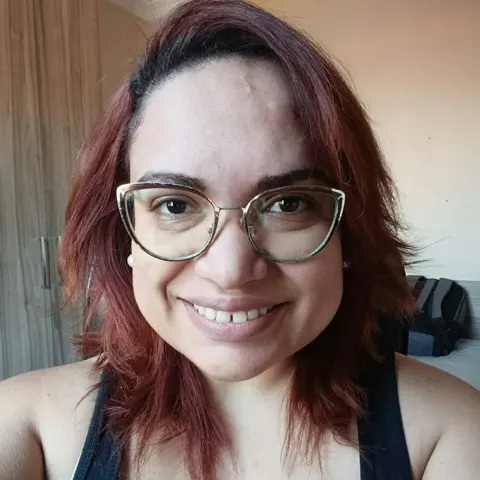
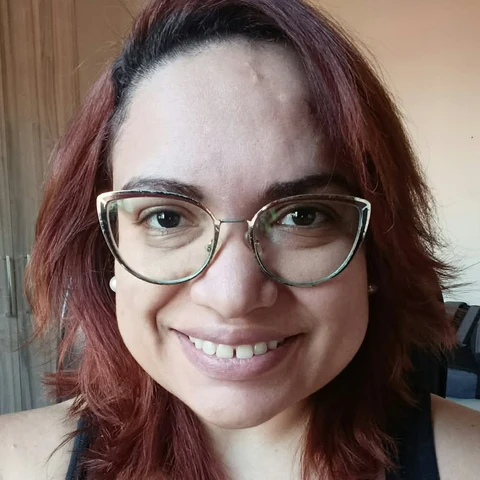
Add the four-speaker panel Infiltradas em Tech: group talk card, spotlight layout and new speaker photos (DEV lineup only)

diff --git a/docs/js/data/schedule.js b/docs/js/data/schedule.js
@@ -99,7 +99,9 @@ const LINEUP_SPEAKER_ROWS = [
   ["victor-ulisses-pugliese", "Victor Ulisses Pugliese", "Researcher, Federal University of São Paulo", "GDE", "assets/img/lineup/victor-ulisses-pugliese.webp", "https://www.linkedin.com/in/victorpug-exe/"],
   ["gustavo-caetano", "Gustavo Caetano", "Head de Educação na LINUXtips", "", "assets/img/lineup/gustavo-caetano.webp", "https://www.linkedin.com/in/oguscaetano/"],
   ["isaque-dias-coelho", "Isaque Dias Coelho", "CI&T - Android Developer Senior", "", "assets/img/lineup/isaque-dias-coelho.webp", "https://www.linkedin.com/in/isaque-coelho/"],
-  ["amanda-araujo-duaibs", "Amanda Araújo Duaibs", "Analista BI", "", "assets/img/lineup/amanda-araujo-duaibs.webp", "https://www.linkedin.com/in/amanda-duaibs/"],
+  ["amanda-araujo-duaibs", "Amanda Araújo Duaibs", "Analista BI, Hands Mobile", "", "assets/img/lineup/amanda-araujo-duaibs.webp", "https://www.linkedin.com/in/amanda-duaibs/"],
+  ["anna-beatriz-callejon", "Anna Beatriz Callejon", "Assistente de operações, Célula Vigilância; admin da ProGirls", "", "assets/img/lineup/anna-beatriz-callejon.webp", "https://www.linkedin.com/in/anna-beatriz-callejon/"],
+  ["cristiane-cursino-santos", "Cristiane Cursino Santos", "Projetos em negócios financeiros (autônoma)", "", "assets/img/lineup/cristiane-cursino-santos.webp", "https://www.linkedin.com/in/cristianecursino"],
   ["felipe-gustavo-silva-teodoro", "Felipe Gustavo Silva Teodoro", "Head of Data Science e Co-Founder na Kogui", "", "assets/img/lineup/felipe-gustavo-silva-teodoro.webp", "https://www.linkedin.com/in/teodorofelipe/"],
   ["paulo-candido", "Paulo Cândido", "Tech Lead na TOTVS", "", "assets/img/lineup/paulo-candido.webp", "https://www.linkedin.com/in/paulhenriquev/"],
   ["emerson-dos-santos-queiroz", "Emerson dos Santos Queiroz", "Timbira, Consultor de Banco de Dados", "", "assets/img/lineup/emerson-dos-santos-queiroz.webp", "https://www.linkedin.com/in/emerson-dos-santos-queiroz-95595761/"],
@@ -139,8 +141,8 @@ const LINEUP_SPEAKER_ROWS = [
 const LINEUP_BADGE_LABELS = { GDE: "Google Developer Expert" };
 const LINEUP_SPEAKERS = LINEUP_SPEAKER_ROWS.map(([id, name, title, badge, photo, linkedin]) => ({ id, name, title, company: "", ...(badge && { badge, badgeLabel: LINEUP_BADGE_LABELS[badge] ?? badge }), photo, linkedin }));
 
-/** `[título, id do palestrante, descrição, formato (opcional, padrão "palestra")]` por posição do slot de palestra (0 = 09:00 ... 8 = 16:30); `null` = vaga em aberto. Todas começam como "palestra". */
-const lineupTalk = row => row && { title: row[0], format: row[3] ?? "palestra", ...(row[4] && { highlight: row[4] }), tags: [], speakerIds: [row[1]], description: row[2] }; // 4º item (opcional): o formato ("" = sem chip de formato); 5º (opcional): o destaque de sessão (data/talk-highlights.js), ex. "maonamassa" (sem concurso)
+/** `[título, id do palestrante (ou lista de ids, para palestra em grupo), descrição, formato (opcional, padrão "palestra")]` por posição do slot de palestra (0 = 09:00 ... 8 = 16:30); `null` = vaga em aberto. Todas começam como "palestra". */
+const lineupTalk = row => row && { title: row[0], format: row[3] ?? "palestra", ...(row[4] && { highlight: row[4] }), tags: [], speakerIds: [row[1]].flat(), description: row[2] }; // 4º item (opcional): o formato ("" = sem chip de formato); 5º (opcional): o destaque de sessão (data/talk-highlights.js), ex. "maonamassa" (sem concurso)
 const LINEUP_TALKS_BY_TRACK = {
   ia: [
     ["O Poder do Low-Code: Criando aplicativos com ferramentas Microsoft (Power Apps)", "ana-andrade-gonsalves", "Ana Andrade Gonsalves é Microsoft MVP em Power Apps e atua como consultora há mais de 5 anos no desenvolvimento de soluções Low-Code. Como criadora de conteúdo no YouTube e LinkedIn, tem a missão de democratizar o desenvolvimento low-code e o design (UI/UX). Seu foco é capacitar a comunidade técnica a explorar todo o potencial do ecossistema Microsoft na criação de aplicações reais e impactantes.\n\nNesta apresentação, vamos direto ao ponto: como o low-code resolve problemas do mundo real. Através de cases aplicados, demonstrarei o verdadeiro potencial das ferramentas Microsoft para o desenvolvimento de soluções robustas, escaláveis e com excelente usabilidade. O público pode esperar uma visão prática de como explorar a capacidade máxima do Power Apps para superar desafios técnicos do dia a dia, acelerar entregas e criar aplicativos que geram alto valor para o negócio."],
@@ -181,7 +183,7 @@ const LINEUP_TALKS_BY_TRACK = {
     ["Seu desenvolvedor ficou 10x mais rápido. Seu SDLC não.", "jesse-freitas", "A IA acelerou o desenvolvedor, mas o SDLC acompanhou? Nesta palestra, vamos explorar a evolução de copilotos para agentes, passando por Agentic Engineering, Context Engineering, qualidade, evals e governança — e como preparar o ciclo de desenvolvimento para entregar resultados verificáveis, não apenas código mais rápido.\n\nJessé Freitas é CTO da Levva, com MBA em Arquitetura de Soluções pela FIAP. Atua há mais de 20 anos em tecnologia, liderando times e iniciativas de engenharia, dados e IA, com foco na aplicação prática de IA no desenvolvimento de software."],
     ["Longevidade Profissional e IA como ferramenta de reinvenção para a sua carreira", "alexandra-regina-cavalleiros", "Não adianta pensar em carreira longa sem pensar também em saúde, energia, equilíbrio e qualidade de vida. A palestra parte da trajetória de uma profissional que construiu carreira em TI, se aposentou, virou professora, entrou no universo gamer, passou a produzir conteúdo e segue aprendendo novas tecnologias.\nTemas: como a IA muda as profissões de tecnologia, o que aprender além das ferramentas, a importância de aprender continuamente, a IA como aceleradora de criatividade e produtividade, o risco de ficar parado, mulheres 40+ e 50+ no mercado, a experiência como diferencial e a reinvenção profissional depois dos 50."],
     ["Você provavelmente já faz pitch. Só talvez não chame isso de pitch.", "nakyta-nara-lucca", "Fazer um pitch não é apenas apresentar uma startup, vender um produto ou participar de um hackathon. No dia a dia profissional, estamos constantemente apresentando ideias, projetos, soluções, nossas competências e muitas vezes precisamos fazer isso em poucos minutos. Nesta palestra, vamos entender o que caracteriza um bom pitch, como selecionar as informações mais relevantes e como organizá-las de acordo com o público e o objetivo da conversa. Também vamos discutir como comunicar valor, gerar interesse e tornar uma mensagem mais clara, objetiva e convincente."],
-    ["Infiltradas em Tech: mulheres que encontraram seu espaço além do código", "amanda-araujo-duaibs", "Será que para trabalhar com tecnologia é preciso ser desenvolvedora? Mulheres com caminhos diferentes e uma mesma área: dados, agilidade, comunidade e tecnologia se encontram em uma conversa sobre carreira, barreiras e oportunidades para quem nem sempre começou, ou atua, diretamente no código.\nCom base nas próprias experiências e nas histórias de pioneiras como Ada Lovelace e Florence Nightingale, discutimos como mulheres ocuparam espaços de inovação mesmo quando eles não pareciam feitos para elas. Uma conversa sobre entrar, permanecer e construir espaço em tech, mesmo fora do estereótipo."],
+    ["Infiltradas em Tech: mulheres que encontraram seu espaço além do código", ["amanda-araujo-duaibs", "anna-beatriz-callejon", "cristiane-cursino-santos", "nakyta-nara-lucca"], "Será que para trabalhar com tecnologia é preciso ser desenvolvedora? Mulheres com caminhos diferentes e uma mesma área: dados, agilidade, comunidade e tecnologia se encontram em uma conversa sobre carreira, barreiras e oportunidades para quem nem sempre começou, ou atua, diretamente no código.\nCom base nas próprias experiências e nas histórias de pioneiras como Ada Lovelace e Florence Nightingale, discutimos como mulheres ocuparam espaços de inovação mesmo quando eles não pareciam feitos para elas. Uma conversa sobre entrar, permanecer e construir espaço em tech, mesmo fora do estereótipo."],
     ["Marketing digital para pequenos empreendedores", "bianca-bordon-weiller", "Como divulgar seu negócio de forma autêntica e eficiente. Uma palestra sobre marketing para quem tem poucos recursos: posicionamento, conteúdo e divulgação acessível para atrair clientes e fortalecer sua marca."],
     ["2035: Você Contrataria um Humano?", "irina-bezzan-miquelin", "Imagine um processo seletivo em 2035: de um lado, um profissional humano com anos de experiência; do outro, um agente de IA disponível 24 horas, capaz de executar tarefas complexas e aprender continuamente. Quem você escolheria?\nCom uma abordagem futurista e provocativa, a palestra discute a evolução do recrutamento, o impacto dos agentes autônomos nas profissões de tecnologia, os desafios da formação de talentos e as competências humanas que podem ficar ainda mais valiosas, a partir da visão de uma liderança de RH em uma HR Tech.\nO público pode esperar cenários distópicos, dilemas éticos e uma pergunta desconfortável: se a IA executa cada vez mais atividades, por que uma empresa contrataria você?"],
     ["A Promessa da IA", "ana-paula-rodrigues", "A IA chegou prometendo automatizar tarefas, aumentar a produtividade e nos devolver tempo. Mas estamos mesmo trabalhando menos ou só encontrando novas formas de trabalhar mais? A partir de pesquisas recentes sobre o impacto da IA na rotina de profissionais de tecnologia, a palestra explora o paradoxo da produtividade: quanto mais eficientes, maiores as expectativas, as demandas e a dificuldade de desconectar.\nDe forma prática e baseada em evidências, discute hiperconectividade, sobrecarga cognitiva e excesso de trabalho, e apresenta estratégias para estabelecer limites, preservar a atenção, descansar melhor e usar a IA de forma mais consciente."],

diff --git a/DevFestIA/tools/dom/group-talk.dom.test.js b/DevFestIA/tools/dom/group-talk.dom.test.js
@@ -1,0 +1,61 @@
+/**
+ * Palestra em GRUPO (painel com 3 ou mais pessoas, ex.: "Infiltradas em Tech", 4 palestrantes): o card mostra as fotos numa linha e os nomes de todo mundo
+ * embaixo, sem os LinkedIn (ficam no modal); o modal lista cada pessoa com foto, cargo e LinkedIn; os dados do painel apontam para 4 pessoas reais, cada uma
+ * com foto no repositório. Dupla segue o card de sempre.
+ *   node --test DevFestIA/tools/dom/group-talk.dom.test.js
+ */
+const test = require("node:test");
+const assert = require("node:assert/strict");
+const fs = require("node:fs");
+const path = require("node:path");
+const { loadSite, SITE_BASE, textOf } = require("../lib/dom-harness.js");
+
+const site = loadSite({
+  scripts: [...SITE_BASE, "data/talk-formats.js", "data/favorites.js", "components/avatar.js", "components/speaker-link.js", "components/favorite-button.js", "components/person-card.js", "components/talk-highlight.js", "components/talk-meta.js", "components/track-card.js"],
+});
+const { window, document } = site;
+test.after(() => window.close());
+
+const track = { id: "mentoring", label: "Carreira em Tecnologia", shortLabel: "Carreira", color: "#EA4335", room: "Sala Mercadão Central" };
+const people = ["Ana Souza", "Bia Lima", "Cris Dias", "Dani Melo"].map(name => ({ name, title: `Cargo de ${name}`, photo: "", linkedin: `https://linkedin.com/in/${name.split(" ")[0].toLowerCase()}` }));
+const talk = speakers => ({ title: "Painel em grupo", format: "palestra", tags: [], speakers, description: "Conversa." });
+const render = html => { const root = document.createElement("div"); root.innerHTML = html; return root; };
+const card = speakers => render(site.get("trackCardMarkup")(track, talk(speakers), { startLabel: "15:00", duration: "40 min", talkKey: "k" }));
+
+test("card de grupo: uma foto por pessoa (até 4), nomes de todas separados por vírgula, layout de grupo e sem LinkedIn no card", () => {
+  const root = card(people);
+  assert.equal(root.querySelectorAll(".talk-avatar-ring").length, 4);
+  assert.equal(textOf(root.querySelector(".talk-name")), "Ana Souza, Bia Lima, Cris Dias, Dani Melo");
+  assert.ok(root.querySelector(".talk-who").classList.contains("talk-who--group"));
+  assert.equal(root.querySelectorAll(".talk-links").length, 0);
+  assert.equal(root.querySelectorAll(".talk-meta").length, 0, "o cargo só aparece com 1 pessoa");
+});
+
+test("card de dupla e de 1 pessoa continua igual: nomes com &, LinkedIn no card, sem layout de grupo", () => {
+  const pair = card(people.slice(0, 2));
+  assert.equal(textOf(pair.querySelector(".talk-name")), "Ana Souza & Bia Lima");
+  assert.ok(!pair.querySelector(".talk-who").classList.contains("talk-who--group"));
+  assert.equal(pair.querySelectorAll(".talk-links .social-icon").length, 2);
+  assert.equal(card(people.slice(0, 1)).querySelectorAll(".talk-meta").length, 1);
+});
+
+test("modal de grupo: cada pessoa com nome, cargo e LinkedIn", () => {
+  const root = render(site.get("talkDetailMarkup")(track, talk(people), { timeRange: "15:00–15:40", room: track.room, talkKey: "k" }));
+  assert.deepEqual([...root.querySelectorAll(".detail-speaker")].map(textOf), people.map(person => person.name));
+  assert.deepEqual([...root.querySelectorAll(".detail-speaker-meta")].map(textOf), people.map(person => person.title));
+  assert.equal(root.querySelectorAll(".detail-speaker-row .social-icon").length, 4);
+});
+
+test("dados: 'Infiltradas em Tech' tem 4 palestrantes distintos, cada um cadastrado com foto no repositório", () => {
+  const source = fs.readFileSync(path.join(__dirname, "../../../docs/js/data/schedule.js"), "utf8");
+  const rows = eval(`[${source.match(/const LINEUP_SPEAKER_ROWS = \[([\s\S]*?)\n\];/)[1]}]`);
+  const byId = Object.fromEntries(rows.map(row => [row[0], row]));
+  const ids = JSON.parse(source.match(/\["Infiltradas em Tech[^"]*", (\[[^\]]*\])/)[1]);
+  assert.equal(ids.length, 4);
+  assert.equal(new Set(ids).size, 4);
+  for (const id of ids) {
+    assert.ok(byId[id], `${id} falta em LINEUP_SPEAKER_ROWS`);
+    assert.ok(fs.existsSync(path.join(__dirname, "../../../docs", byId[id][4])), `foto de ${id} não existe`);
+    assert.match(byId[id][5], /^https:\/\/www\.linkedin\.com\/in\//, `LinkedIn de ${id}`);
+  }
+});

diff --git a/docs/telao.html b/docs/telao.html
@@ -11,7 +11,7 @@
 <link rel="preload" href="assets/fonts/google-sans-latin.woff2" as="font" type="font/woff2" crossorigin>
 <link rel="stylesheet" href="css/fonts.css?v=1">
 <link rel="stylesheet" href="css/tokens.css?v=4">
-<link rel="stylesheet" href="css/mural.css?v=39">
+<link rel="stylesheet" href="css/mural.css?v=40">
 </head>
 <body>
 
@@ -50,7 +50,7 @@
 <script src="js/data/mock-speakers.js?v=5"></script>
 <script src="js/data/mock-talks.js?v=6"></script>
 <script src="js/data/schedule-builder.js?v=9"></script>
-<script src="js/data/schedule.js?v=66"></script>
+<script src="js/data/schedule.js?v=67"></script>
 <script src="js/data/persisted-set-repository.js?v=2"></script>
 <script src="js/data/favorites.js?v=1"></script>
 <script src="js/data/icons.js?v=12"></script>
@@ -81,7 +81,7 @@
 <script src="js/components/escape-html.js?v=1"></script>
 <script src="js/components/track-attrs.js?v=1"></script>
 <script src="js/components/avatar.js?v=2"></script>
-<script src="js/components/track-card.js?v=23"></script>
+<script src="js/components/track-card.js?v=24"></script>
 <script src="js/components/icon.js?v=1"></script>
 <script src="js/components/talk-highlight.js?v=8"></script>
 <script src="js/components/mural-chrome.js?v=3"></script>
@@ -97,7 +97,7 @@
 <script src="js/components/mural-scenes/album-models/album-model-feature.js?v=1"></script>
 <script src="js/components/mural-scenes/album-models/album-model-mosaic.js?v=1"></script>
 <script src="js/components/mural-scenes/mural-album-scene.js?v=2"></script>
-<script src="js/components/mural-scenes/mural-spotlight-scene.js?v=2"></script>
+<script src="js/components/mural-scenes/mural-spotlight-scene.js?v=3"></script>
 <script src="js/components/mural-scenes/mural-selfie-scene.js?v=3"></script>
 <script src="js/components/mural-scenes/mural-sponsors-scene.js?v=4"></script>
 <script src="js/components/mural-scenes/mural-qr-scene.js?v=4"></script>

diff --git a/docs/grade.html b/docs/grade.html
@@ -28,7 +28,7 @@
 <link rel="preload" href="assets/fonts/google-sans-latin.woff2" as="font" type="font/woff2" crossorigin>
 <link rel="stylesheet" href="css/fonts.css?v=1">
 <link rel="stylesheet" href="css/tokens.css?v=4">
-<link rel="stylesheet" href="css/styles.css?v=130">
+<link rel="stylesheet" href="css/styles.css?v=131">
 <link rel="stylesheet" href="css/parallel-session.css?v=4">
 <link rel="stylesheet" href="css/wall.css?v=2">
 </head>
@@ -108,7 +108,7 @@
 <script src="js/data/mock-speakers.js?v=5"></script>
 <script src="js/data/mock-talks.js?v=6"></script>
 <script src="js/data/schedule-builder.js?v=9"></script>
-<script src="js/data/schedule.dev.js" onerror="this.onerror=null;document.write('\x3Cscript src=&quot;js/data/schedule.js?v=66&quot;\x3E\x3C/script\x3E')"></script>
+<script src="js/data/schedule.dev.js" onerror="this.onerror=null;document.write('\x3Cscript src=&quot;js/data/schedule.js?v=67&quot;\x3E\x3C/script\x3E')"></script>
 <script src="js/data/placeholder.js?v=1"></script>
 <script src="js/data/persisted-set-repository.js?v=2"></script>
 <script src="js/data/persisted-value-repository.js?v=1"></script>
@@ -151,10 +151,10 @@
 <script src="js/components/favorite-button.js?v=3"></script>
 <script src="js/components/speaker-link.js?v=1"></script>
 <script src="js/components/talk-highlight.js?v=8"></script>
-<script src="js/components/talk-meta.js?v=3"></script>
+<script src="js/components/talk-meta.js?v=4"></script>
 <script src="js/components/calendar-links.js?v=2"></script>
 <script src="js/components/agenda-actions.js?v=2"></script>
-<script src="js/components/track-card.js?v=23"></script>
+<script src="js/components/track-card.js?v=24"></script>
 <script src="js/components/escape-html.js?v=1"></script>
 <script src="js/components/track-attrs.js?v=1"></script>
 <script src="js/components/rating-inputs.js?v=4"></script>

diff --git a/docs/index.html b/docs/index.html
@@ -32,7 +32,7 @@
 <link rel="preload" href="assets/fonts/google-sans-latin.woff2" as="font" type="font/woff2" crossorigin>
 <link rel="stylesheet" href="css/fonts.css?v=1">
 <link rel="stylesheet" href="css/tokens.css?v=4">
-<link rel="stylesheet" href="css/styles.css?v=130">
+<link rel="stylesheet" href="css/styles.css?v=131">
 <link rel="stylesheet" href="css/waitlist.css?v=2">
 <link rel="stylesheet" href="css/wall.css?v=2">
 <link rel="stylesheet" href="css/venue-campus-map.css?v=14">
@@ -205,7 +205,7 @@
 <script src="js/data/mock-speakers.js?v=5"></script>
 <script src="js/data/mock-talks.js?v=6"></script>
 <script src="js/data/schedule-builder.js?v=9"></script>
-<script src="js/data/schedule.dev.js" onerror="this.onerror=null;document.write('\x3Cscript src=&quot;js/data/schedule.js?v=66&quot;\x3E\x3C/script\x3E')"></script>
+<script src="js/data/schedule.dev.js" onerror="this.onerror=null;document.write('\x3Cscript src=&quot;js/data/schedule.js?v=67&quot;\x3E\x3C/script\x3E')"></script>
 <script src="js/data/placeholder.js?v=1"></script>
 <script src="js/data/persisted-set-repository.js?v=2"></script>
 <script src="js/data/persisted-value-repository.js?v=1"></script>
@@ -256,9 +256,9 @@
 <script src="js/components/favorite-button.js?v=3"></script>
 <script src="js/components/speaker-link.js?v=1"></script>
 <script src="js/components/talk-highlight.js?v=8"></script>
-<script src="js/components/talk-meta.js?v=3"></script>
+<script src="js/components/talk-meta.js?v=4"></script>
 <script src="js/components/calendar-links.js?v=2"></script>
-<script src="js/components/track-card.js?v=23"></script>
+<script src="js/components/track-card.js?v=24"></script>
 <script src="js/components/escape-html.js?v=1"></script>
 <script src="js/components/track-attrs.js?v=1"></script>
 <script src="js/components/rating-inputs.js?v=4"></script>

diff --git a/docs/creditos.html b/docs/creditos.html
@@ -28,7 +28,7 @@
 <link rel="preload" href="assets/fonts/google-sans-latin.woff2" as="font" type="font/woff2" crossorigin>
 <link rel="stylesheet" href="css/fonts.css?v=1">
 <link rel="stylesheet" href="css/tokens.css?v=4">
-<link rel="stylesheet" href="css/styles.css?v=130">
+<link rel="stylesheet" href="css/styles.css?v=131">
 <link rel="stylesheet" href="css/parallel-session.css?v=4">
 <link rel="stylesheet" href="css/gcp-credits.css?v=9">
 </head>
@@ -84,7 +84,7 @@
 <script src="js/data/mock-speakers.js?v=5"></script>
 <script src="js/data/mock-talks.js?v=6"></script>
 <script src="js/data/schedule-builder.js?v=9"></script>
-<script src="js/data/schedule.dev.js" onerror="this.onerror=null;document.write('\x3Cscript src=&quot;js/data/schedule.js?v=66&quot;\x3E\x3C/script\x3E')"></script>
+<script src="js/data/schedule.dev.js" onerror="this.onerror=null;document.write('\x3Cscript src=&quot;js/data/schedule.js?v=67&quot;\x3E\x3C/script\x3E')"></script>
 <script src="js/data/placeholder.js?v=1"></script>
 <script src="js/data/persisted-set-repository.js?v=2"></script>
 <script src="js/data/favorites.js?v=1"></script>
@@ -117,9 +117,9 @@
 <script src="js/components/favorite-button.js?v=3"></script>
 <script src="js/components/speaker-link.js?v=1"></script>
 <script src="js/components/talk-highlight.js?v=8"></script>
-<script src="js/components/talk-meta.js?v=3"></script>
+<script src="js/components/talk-meta.js?v=4"></script>
 <script src="js/components/calendar-links.js?v=2"></script>
-<script src="js/components/track-card.js?v=23"></script>
+<script src="js/components/track-card.js?v=24"></script>
 <script src="js/components/info-card.js?v=2"></script>
 <script src="js/components/construction-notice.js?v=2"></script>
 <script src="js/components/parallel-session-card.js?v=4"></script>

diff --git a/docs/local.html b/docs/local.html
@@ -28,7 +28,7 @@
 <link rel="preload" href="assets/fonts/google-sans-latin.woff2" as="font" type="font/woff2" crossorigin>
 <link rel="stylesheet" href="css/fonts.css?v=1">
 <link rel="stylesheet" href="css/tokens.css?v=4">
-<link rel="stylesheet" href="css/styles.css?v=130">
+<link rel="stylesheet" href="css/styles.css?v=131">
 <link rel="stylesheet" href="css/venue-campus-map.css?v=14">
 <link rel="stylesheet" href="css/venue-photo-gallery.css?v=4">
 </head>
@@ -88,7 +88,7 @@
 <script src="js/data/mock-speakers.js?v=5"></script>
 <script src="js/data/mock-talks.js?v=6"></script>
 <script src="js/data/schedule-builder.js?v=9"></script>
-<script src="js/data/schedule.dev.js" onerror="this.onerror=null;document.write('\x3Cscript src=&quot;js/data/schedule.js?v=66&quot;\x3E\x3C/script\x3E')"></script>
+<script src="js/data/schedule.dev.js" onerror="this.onerror=null;document.write('\x3Cscript src=&quot;js/data/schedule.js?v=67&quot;\x3E\x3C/script\x3E')"></script>
 <script src="js/data/placeholder.js?v=1"></script>
 <script src="js/data/persisted-set-repository.js?v=2"></script>
 <script src="js/data/favorites.js?v=1"></script>
@@ -124,9 +124,9 @@
 <script src="js/components/favorite-button.js?v=3"></script>
 <script src="js/components/speaker-link.js?v=1"></script>
 <script src="js/components/talk-highlight.js?v=8"></script>
-<script src="js/components/talk-meta.js?v=3"></script>
+<script src="js/components/talk-meta.js?v=4"></script>
 <script src="js/components/calendar-links.js?v=2"></script>
-<script src="js/components/track-card.js?v=23"></script>
+<script src="js/components/track-card.js?v=24"></script>
 <script src="js/components/info-card.js?v=2"></script>
 <script src="js/data/sponsor-tiers.js?v=5"></script>
 <script src="js/components/sponsor-card.js?v=8"></script>

diff --git a/DevFestIA/tools/dom/mural-scenes.dom.test.js b/DevFestIA/tools/dom/mural-scenes.dom.test.js
@@ -243,6 +243,18 @@ test("rolando agora: a posição escolhe a sala entre as que têm palestra no ar
   assert.equal(await scene.prepare({ slot: 0 }, ctx({ now: at("12:00") })), MURAL_SKIP, "ninguém no ar fora do horário");
 });
 
+test("rolando agora: palestra em grupo (4 pessoas) mostra as 4 fotos e nomes e ganha o layout de grupo; com 1 ou 2 pessoas o layout é o de sempre", async () => {
+  const four = ["Ana", "Bia", "Cris", "Dani"].map(name => ({ name, title: `Cargo ${name}`, photo: `${name}.jpg` }));
+  const groupSchedule = [{ talks: { ia: talkOf("Painel em grupo", four, { blurb: "Quatro vozes." }), web: talkOf("Dupla", four.slice(0, 2)) }, start: at("09:00"), end: at("09:40") }];
+  const scene = g("createSpotlightScene")({ schedule: groupSchedule, tracks: spotTracks, timezone: "America/Sao_Paulo", phaseOf: g("resolveEventState"), preloadPhoto: async () => {}, hostOf: () => null });
+  const render = async slot => html(scene.render(await scene.prepare({ slot }, ctx({ now: at("09:10") })), {}, ctx({ now: at("09:10") })).markup);
+  const group = await render(0);
+  assert.equal(group.querySelectorAll("img.ms-avatar").length, 4);
+  assert.deepEqual([...group.querySelectorAll(".ms-spot-person b")].map(textOf), ["Ana", "Bia", "Cris", "Dani"]);
+  assert.ok(group.querySelector(".ms-spot-body").classList.contains("ms-spot-body--group"));
+  assert.ok(!(await render(1)).querySelector(".ms-spot-body").classList.contains("ms-spot-body--group"), "dupla segue o layout normal");
+});
+
 test("rolando agora: foto, nome, cargo, título, texto curto (blurb vence a descrição), tags limitadas, horário, progresso e pontinhos", async () => {
   const scene = spotlight();
   const prepared = await scene.prepare({ slot: 0 }, ctx({ now: at("09:10") }));

diff --git a/docs/palestrantes.html b/docs/palestrantes.html
@@ -28,7 +28,7 @@
 <link rel="preload" href="assets/fonts/google-sans-latin.woff2" as="font" type="font/woff2" crossorigin>
 <link rel="stylesheet" href="css/fonts.css?v=1">
 <link rel="stylesheet" href="css/tokens.css?v=4">
-<link rel="stylesheet" href="css/styles.css?v=130">
+<link rel="stylesheet" href="css/styles.css?v=131">
 <link rel="stylesheet" href="css/wall.css?v=2">
 </head>
 <body>
@@ -107,7 +107,7 @@
 <script src="js/data/mock-speakers.js?v=5"></script>
 <script src="js/data/mock-talks.js?v=6"></script>
 <script src="js/data/schedule-builder.js?v=9"></script>
-<script src="js/data/schedule.dev.js" onerror="this.onerror=null;document.write('\x3Cscript src=&quot;js/data/schedule.js?v=66&quot;\x3E\x3C/script\x3E')"></script>
+<script src="js/data/schedule.dev.js" onerror="this.onerror=null;document.write('\x3Cscript src=&quot;js/data/schedule.js?v=67&quot;\x3E\x3C/script\x3E')"></script>
 <script src="js/data/placeholder.js?v=1"></script>
 <script src="js/data/persisted-set-repository.js?v=2"></script>
 <script src="js/data/persisted-value-repository.js?v=1"></script>
@@ -148,9 +148,9 @@
 <script src="js/components/favorite-button.js?v=3"></script>
 <script src="js/components/speaker-link.js?v=1"></script>
 <script src="js/components/talk-highlight.js?v=8"></script>
-<script src="js/components/talk-meta.js?v=3"></script>
+<script src="js/components/talk-meta.js?v=4"></script>
 <script src="js/components/calendar-links.js?v=2"></script>
-<script src="js/components/track-card.js?v=23"></script>
+<script src="js/components/track-card.js?v=24"></script>
 <script src="js/components/escape-html.js?v=1"></script>
 <script src="js/components/track-attrs.js?v=1"></script>
 <script src="js/components/rating-inputs.js?v=4"></script>

diff --git a/docs/fundos.html b/docs/fundos.html
@@ -28,7 +28,7 @@
 <link rel="preload" href="assets/fonts/google-sans-latin.woff2" as="font" type="font/woff2" crossorigin>
 <link rel="stylesheet" href="css/fonts.css?v=1">
 <link rel="stylesheet" href="css/tokens.css?v=4">
-<link rel="stylesheet" href="css/styles.css?v=130">
+<link rel="stylesheet" href="css/styles.css?v=131">
 <link rel="stylesheet" href="css/wallpapers.css?v=3">
 </head>
 <body>
@@ -85,7 +85,7 @@
 <script src="js/data/mock-speakers.js?v=5"></script>
 <script src="js/data/mock-talks.js?v=6"></script>
 <script src="js/data/schedule-builder.js?v=9"></script>
-<script src="js/data/schedule.dev.js" onerror="this.onerror=null;document.write('\x3Cscript src=&quot;js/data/schedule.js?v=66&quot;\x3E\x3C/script\x3E')"></script>
+<script src="js/data/schedule.dev.js" onerror="this.onerror=null;document.write('\x3Cscript src=&quot;js/data/schedule.js?v=67&quot;\x3E\x3C/script\x3E')"></script>
 <script src="js/data/placeholder.js?v=1"></script>
 <script src="js/data/persisted-set-repository.js?v=2"></script>
 <script src="js/data/favorites.js?v=1"></script>
@@ -119,9 +119,9 @@
 <script src="js/components/favorite-button.js?v=3"></script>
 <script src="js/components/speaker-link.js?v=1"></script>
 <script src="js/components/talk-highlight.js?v=8"></script>
-<script src="js/components/talk-meta.js?v=3"></script>
+<script src="js/components/talk-meta.js?v=4"></script>
 <script src="js/components/calendar-links.js?v=2"></script>
-<script src="js/components/track-card.js?v=23"></script>
+<script src="js/components/track-card.js?v=24"></script>
 <script src="js/components/info-card.js?v=2"></script>
 <script src="js/data/sponsor-tiers.js?v=5"></script>
 <script src="js/components/sponsor-card.js?v=8"></script>

diff --git a/docs/recado.html b/docs/recado.html
@@ -13,7 +13,7 @@
 <link rel="preload" href="assets/fonts/google-sans-latin.woff2" as="font" type="font/woff2" crossorigin>
 <link rel="stylesheet" href="css/fonts.css?v=1">
 <link rel="stylesheet" href="css/tokens.css?v=4">
-<link rel="stylesheet" href="css/styles.css?v=130">
+<link rel="stylesheet" href="css/styles.css?v=131">
 <link rel="stylesheet" href="css/wall.css?v=2">
 </head>
 <body>
@@ -72,7 +72,7 @@
 <script src="js/data/mock-speakers.js?v=5"></script>
 <script src="js/data/mock-talks.js?v=6"></script>
 <script src="js/data/schedule-builder.js?v=9"></script>
-<script src="js/data/schedule.dev.js" onerror="this.onerror=null;document.write('\x3Cscript src=&quot;js/data/schedule.js?v=66&quot;\x3E\x3C/script\x3E')"></script>
+<script src="js/data/schedule.dev.js" onerror="this.onerror=null;document.write('\x3Cscript src=&quot;js/data/schedule.js?v=67&quot;\x3E\x3C/script\x3E')"></script>
 <script src="js/data/placeholder.js?v=1"></script>
 <script src="js/data/persisted-set-repository.js?v=2"></script>
 <script src="js/data/favorites.js?v=1"></script>
@@ -109,9 +109,9 @@
 <script src="js/components/favorite-button.js?v=3"></script>
 <script src="js/components/speaker-link.js?v=1"></script>
 <script src="js/components/talk-highlight.js?v=8"></script>
-<script src="js/components/talk-meta.js?v=3"></script>
+<script src="js/components/talk-meta.js?v=4"></script>
 <script src="js/components/calendar-links.js?v=2"></script>
-<script src="js/components/track-card.js?v=23"></script>
+<script src="js/components/track-card.js?v=24"></script>
 <script src="js/components/info-card.js?v=2"></script>
 <script src="js/data/sponsor-tiers.js?v=5"></script>
 <script src="js/components/sponsor-card.js?v=8"></script>

diff --git a/docs/js/components/track-card.js b/docs/js/components/track-card.js
@@ -48,7 +48,8 @@ function trackCardMarkup(track, data, {
 } = {}) {
   const highlight = reveal ? talkHighlightsRepository.forTalk(data) : null;
   const speakers = reveal ? talkWhoList(data) : [];
-  const speaker = reveal ? speakers.map((s) => s.name).join(" & ") || hiddenSpeakerLabel() : hiddenSpeakerLabel();
+  const group = speakers.length >= GROUP_MIN_SPEAKERS; // palestra em grupo: fotos numa linha, nomes embaixo, LinkedIn de cada pessoa só no modal
+  const speaker = reveal ? speakers.map((s) => s.name).join(group ? ", " : " & ") || hiddenSpeakerLabel() : hiddenSpeakerLabel();
   const title = reveal && data.title ? data.title : "";
   const room = reveal ? track.room : "";
   const meta = reveal && speakers.length === 1 ? speakerMetaLine(speakers[0]) : "";
@@ -81,13 +82,13 @@ function trackCardMarkup(track, data, {
       <div class="title${title ? "" : " title--pending"}">${title || hiddenTitleLabel()}</div>
       ${reveal ? talkTagsMarkup(data, highlight) : ""}
       ${highlight ? talkHighlightBodyMarkup(highlight) : ""}
-      <div class="talk-who">
+      <div class="talk-who${group ? " talk-who--group" : ""}">
         ${talkAvatarsMarkup(speakers, { talk: title, color: track.color })}
         <div class="talk-who-text">
           <div class="talk-name">${speaker}</div>
           ${meta ? `<div class="talk-meta">${meta}</div>` : ""}
         </div>
-        ${reveal ? talkLinksMarkup(speakers) : ""}
+        ${reveal && !group ? talkLinksMarkup(speakers) : ""}
       </div>
       ${foot ? `<div class="talk-foot">${foot}</div>` : ""}
       ${live ? `<div class="talk-progress"><b style="width:${Math.round(progress * 100)}%"></b></div>` : ""}
